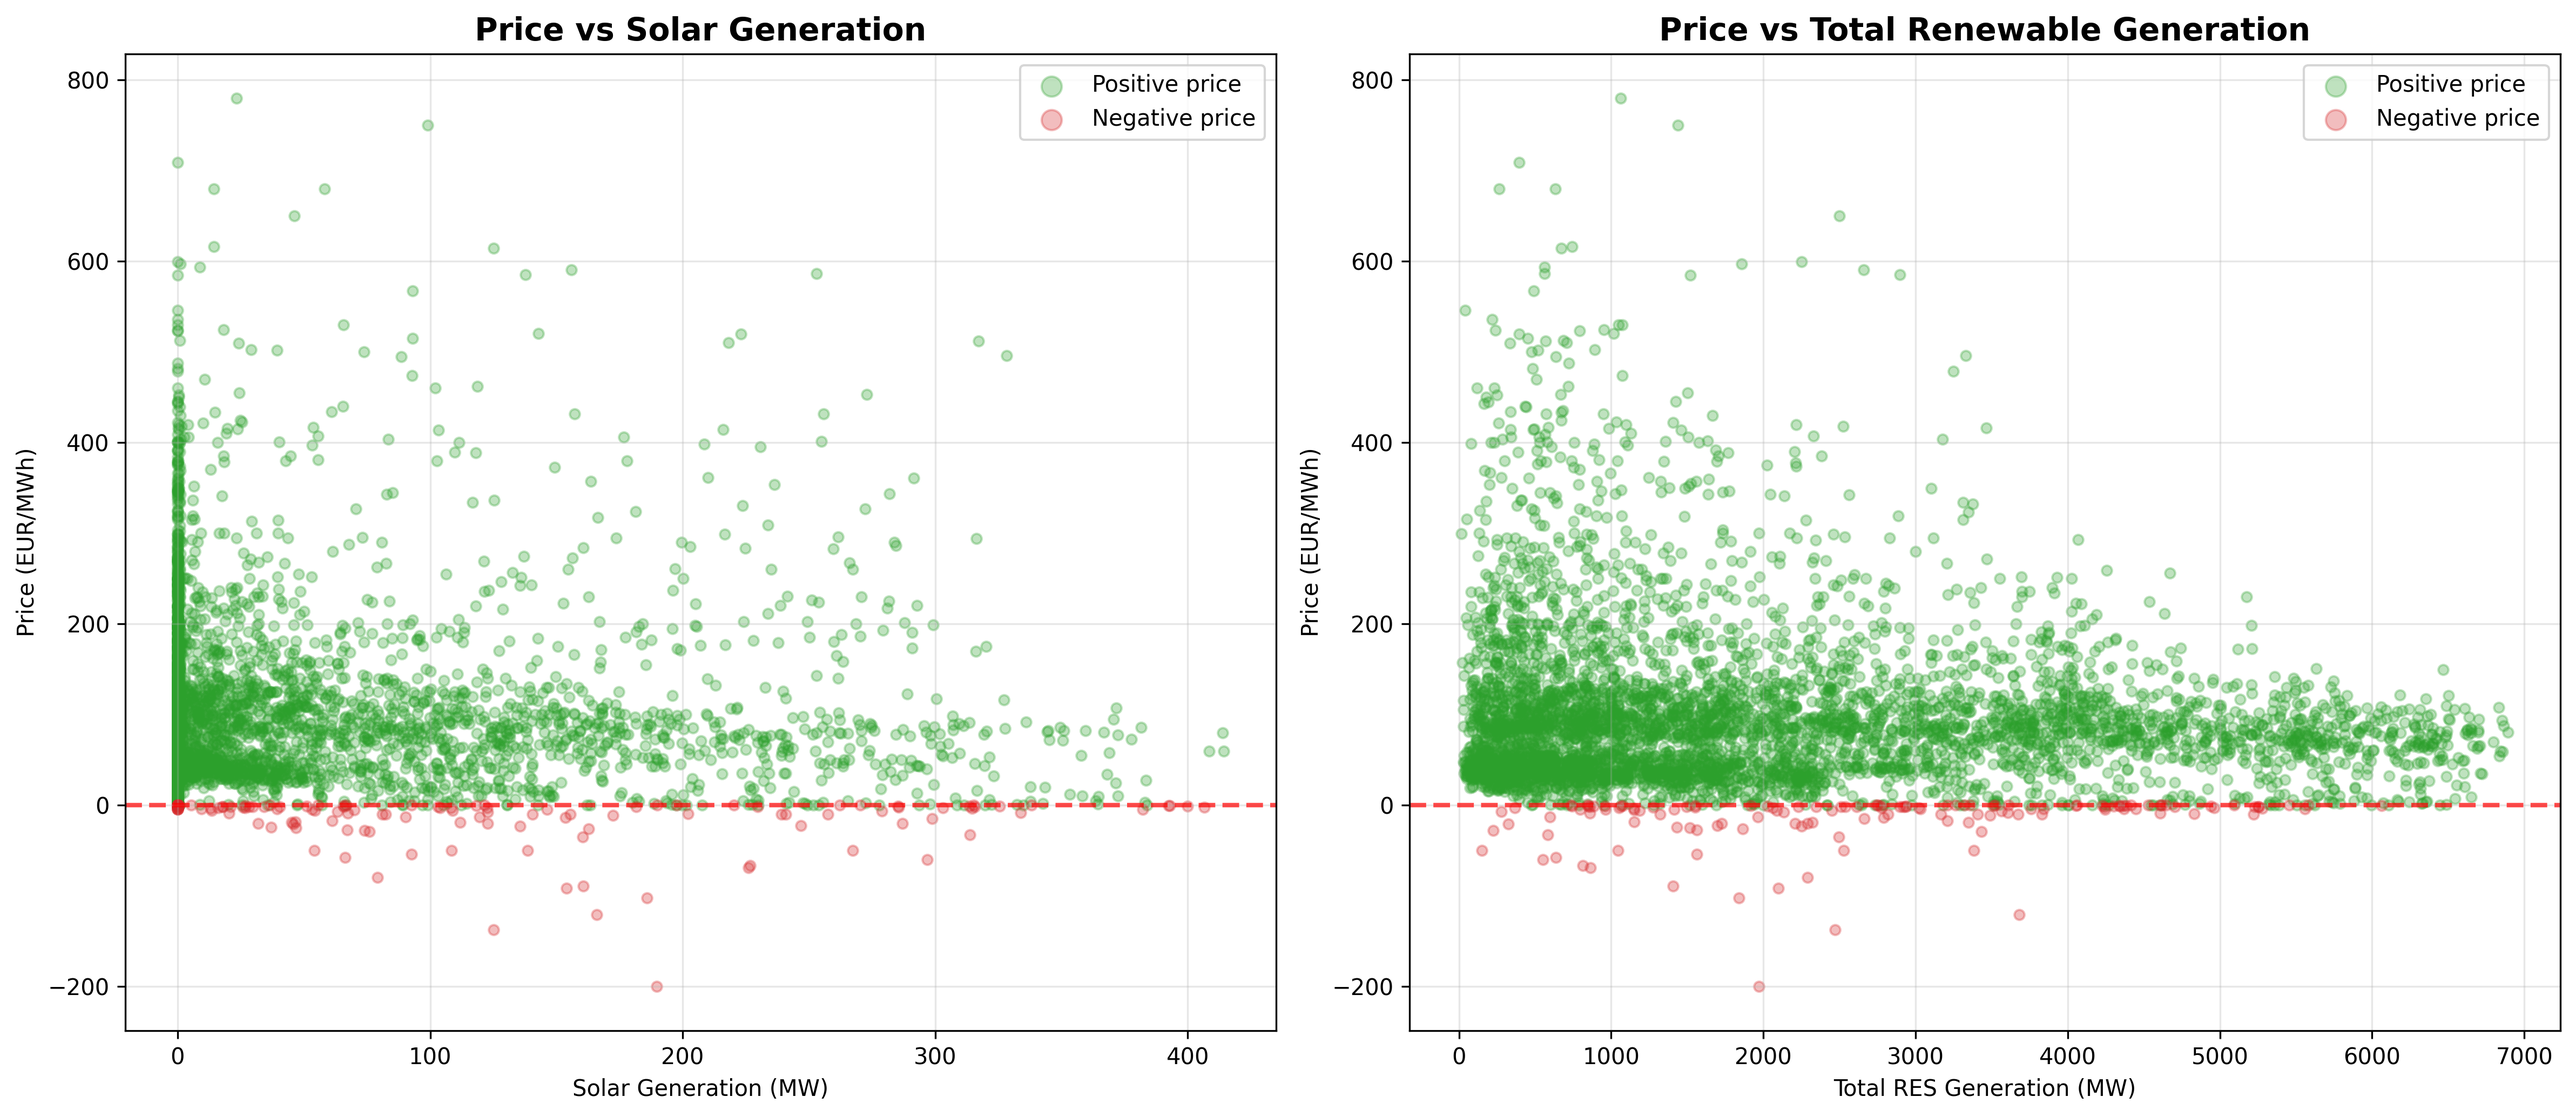
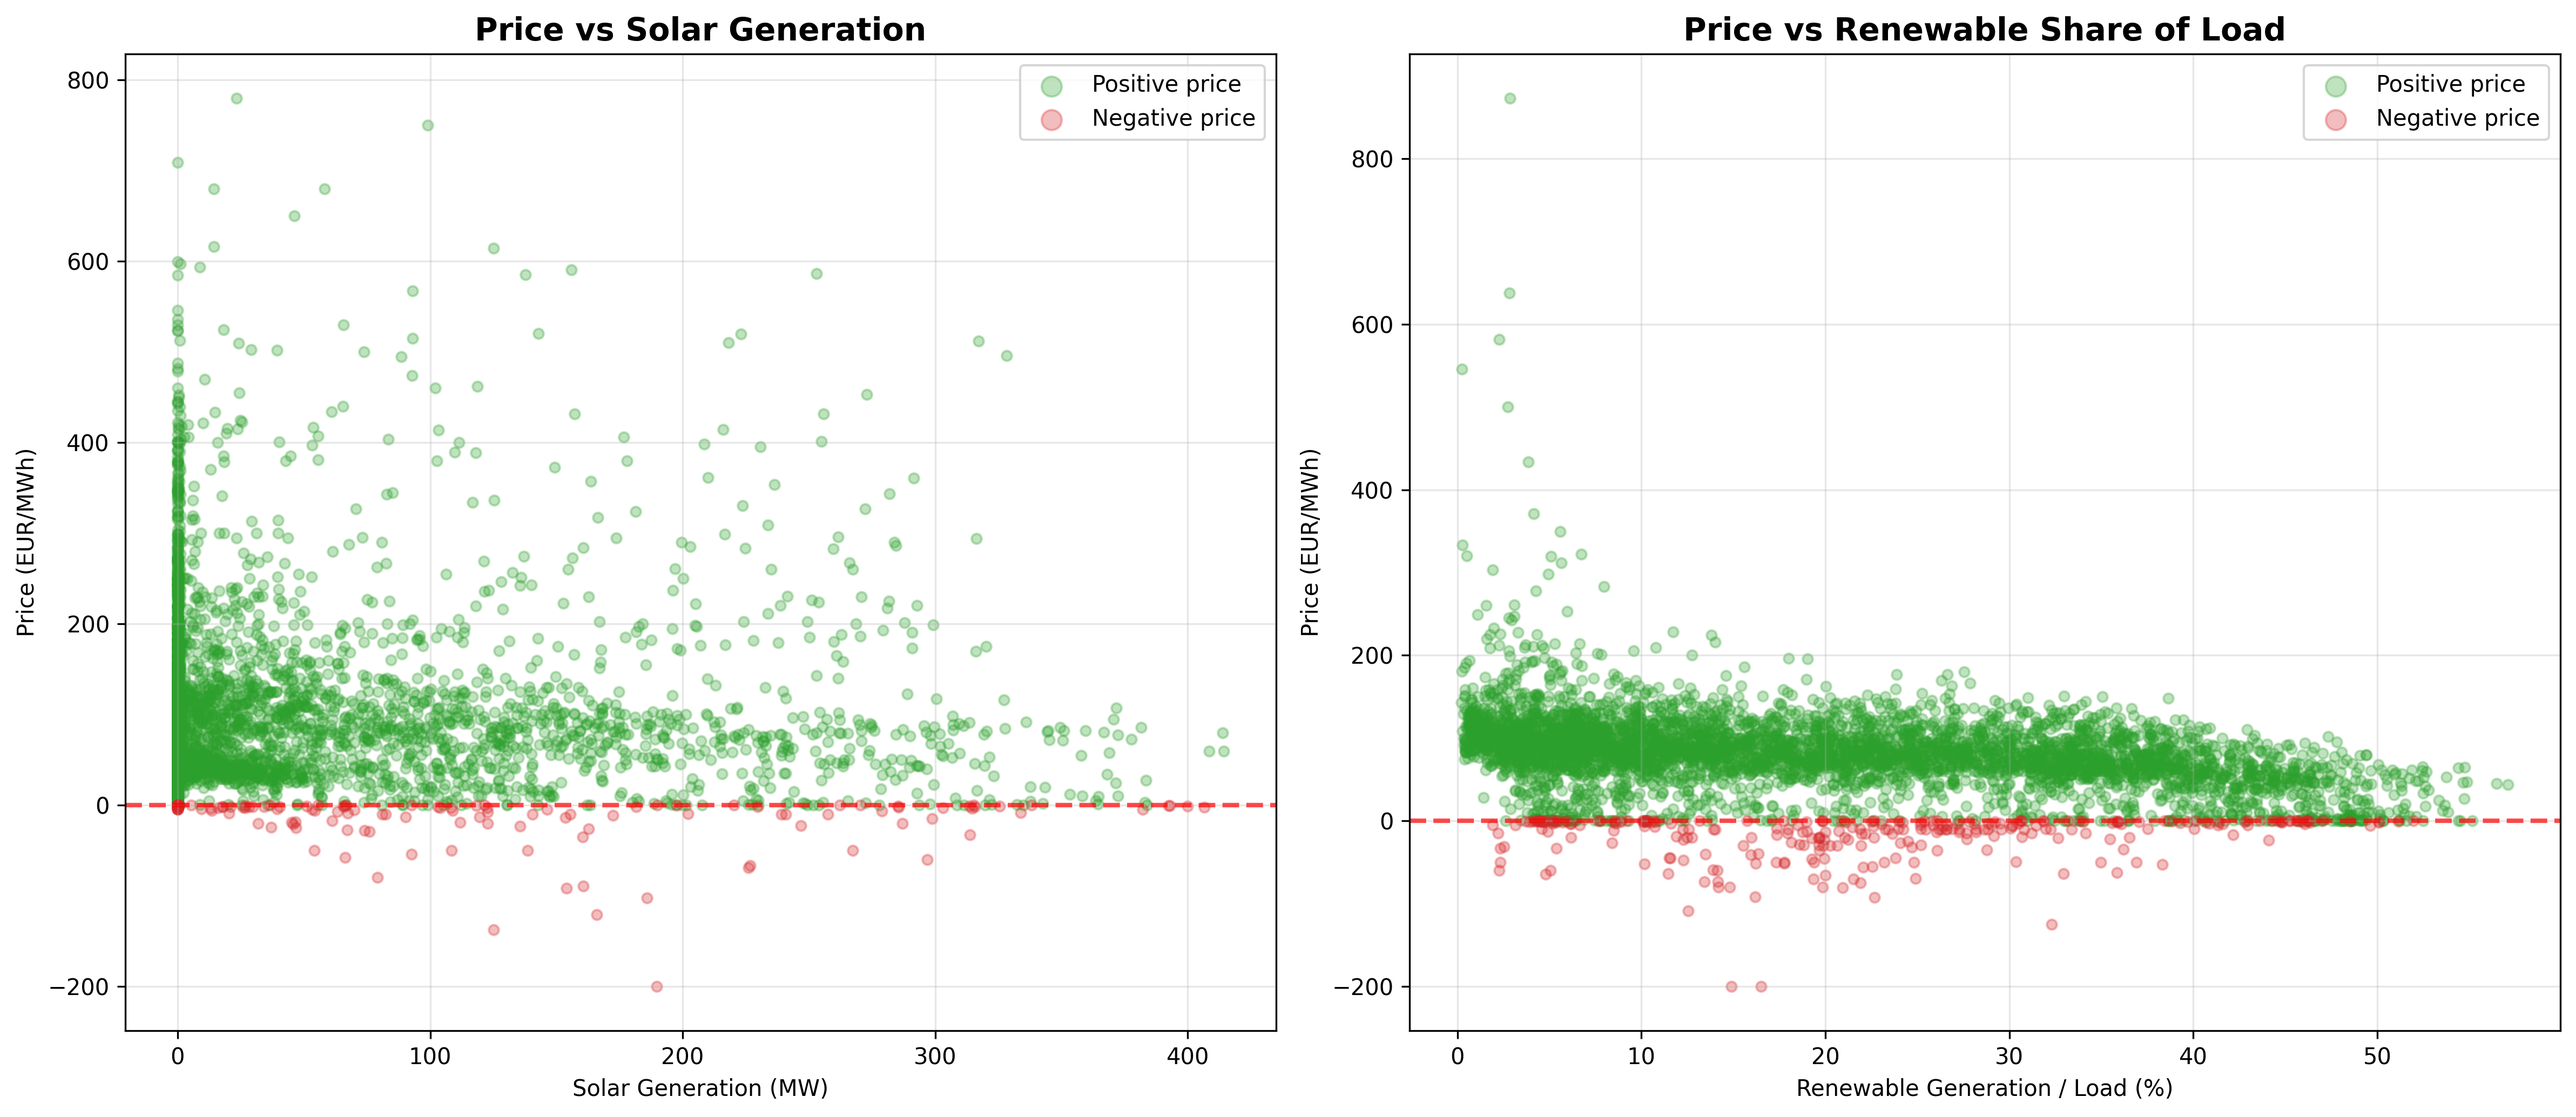
Changes

diff --git a/scripts/exploratory_analysis.py b/scripts/exploratory_analysis.py
@@ -355,15 +355,27 @@ axes[0].set_ylabel('Price (€/MWh)')
 axes[0].grid(True, alpha=0.3)
 axes[0].legend(fontsize=10, markerscale=2)
 
-# Scatter: Total RES vs Price
-axes[1].scatter(sample.loc[mask_pos, 'total_res'], sample.loc[mask_pos, 'price'],
+# Scatter: RES / Load vs Price (2024 only, from unified dataset)
+unified_06 = pd.read_csv(PROCESSED_DATA_DIR / "unified_dataset2.csv",
+                          index_col=0, parse_dates=True)
+unified_06.index = pd.to_datetime(unified_06.index, utc=True)
+unified_06 = unified_06[(unified_06.index.year == 2024) & unified_06['load_mw'].notna() & (unified_06['load_mw'] > 0)].copy()
+unified_06['res_to_load'] = (
+    (unified_06['solar_generation_mw'].fillna(0) + unified_06['wind_generation_mw'].fillna(0))
+    / unified_06['load_mw']
+)
+unified_06['is_negative'] = (unified_06['price_eur_mwh'] < 0).astype(int)
+sample_06r = unified_06.sample(n=min(5000, len(unified_06)), random_state=42)
+mask_pos_r = sample_06r['is_negative'] == 0
+mask_neg_r = sample_06r['is_negative'] == 1
+axes[1].scatter(sample_06r.loc[mask_pos_r, 'res_to_load'] * 100, sample_06r.loc[mask_pos_r, 'price_eur_mwh'],
                 alpha=0.3, s=20, color='#2ca02c', label='Positive price')
-axes[1].scatter(sample.loc[mask_neg, 'total_res'], sample.loc[mask_neg, 'price'],
+axes[1].scatter(sample_06r.loc[mask_neg_r, 'res_to_load'] * 100, sample_06r.loc[mask_neg_r, 'price_eur_mwh'],
                 alpha=0.3, s=20, color='#d62728', label='Negative price')
 axes[1].axhline(y=0, color='red', linestyle='--', linewidth=2, alpha=0.7)
-axes[1].set_title('Price vs Total Renewable Generation', fontsize=14, fontweight='bold')
-axes[1].set_xlabel('Total RES Generation (MW)')
-axes[1].set_ylabel('Price (€/MWh)')
+axes[1].set_title('Price vs Renewable Share of Load', fontsize=14, fontweight='bold')
+axes[1].set_xlabel('Renewable Generation / Load (%)')
+axes[1].set_ylabel('Price (EUR/MWh)')
 axes[1].grid(True, alpha=0.3)
 axes[1].legend(fontsize=10, markerscale=2)
 
@@ -425,37 +437,23 @@ print("[+] Saved: 06a_renewable_power_proportion_generation.png")
 # 11. VISUALIZATION 06b: Price vs Renewable Generation / Load
 # ============================================================================
 
-print("\n[*] Creating Visualization 06b: Renewable Power Proportion (of Load) vs Price...")
+print("\n[*] Creating Visualization 06b: Price vs Total Renewable Generation...")
 
-# Filter to 2024 only, and rows where load_mw is valid and positive
-unified_load = unified[(unified.index.year == 2024) & unified['load_mw'].notna() & (unified['load_mw'] > 0)].copy()
-
-# Compute renewable-to-load ratio
-unified_load['res_to_load'] = (
-    (unified_load['solar_generation_mw'].fillna(0) + unified_load['wind_generation_mw'].fillna(0))
-    / unified_load['load_mw']
-)
-unified_load['is_negative'] = (unified_load['price_eur_mwh'] < 0).astype(int)
-
-print(f"   Valid records: {len(unified_load):,}")
-print(f"   RES/Load range: {unified_load['res_to_load'].min():.1%} – {unified_load['res_to_load'].max():.1%}")
-
-# Sample for plotting
-sample_06b = unified_load.sample(n=min(5000, len(unified_load)), random_state=42)
-print(f"   Sampled {len(sample_06b):,} points ({sample_06b['is_negative'].sum()} negative)")
+# Reuse merged data from viz 06 (price, solar, wind, total_res, is_negative)
+sample_06b = merged.sample(n=min(5000, len(merged)), random_state=42)
 
 fig, ax = plt.subplots(figsize=(16, 7))
 
 mask_pos = sample_06b['is_negative'] == 0
 mask_neg = sample_06b['is_negative'] == 1
-ax.scatter(sample_06b.loc[mask_pos, 'res_to_load'] * 100, sample_06b.loc[mask_pos, 'price_eur_mwh'],
+ax.scatter(sample_06b.loc[mask_pos, 'total_res'], sample_06b.loc[mask_pos, 'price'],
            alpha=0.3, s=20, color='#2ca02c', label='Positive price')
-ax.scatter(sample_06b.loc[mask_neg, 'res_to_load'] * 100, sample_06b.loc[mask_neg, 'price_eur_mwh'],
+ax.scatter(sample_06b.loc[mask_neg, 'total_res'], sample_06b.loc[mask_neg, 'price'],
            alpha=0.3, s=20, color='#d62728', label='Negative price')
 ax.axhline(y=0, color='red', linestyle='--', linewidth=2, alpha=0.7)
-ax.set_title('Price vs Renewable Generation as Share of Load (Solar + Wind / Load)',
+ax.set_title('Price vs Total Renewable Generation (Solar + Wind)',
              fontsize=16, fontweight='bold')
-ax.set_xlabel('Renewable Generation / Load (%)', fontsize=12)
+ax.set_xlabel('Total RES Generation (MW)', fontsize=12)
 ax.set_ylabel('Price (EUR/MWh)', fontsize=12)
 ax.grid(True, alpha=0.3)
 ax.legend(fontsize=11, markerscale=2)

diff --git a/README.md b/README.md
@@ -120,16 +120,6 @@ Common issues:
 - **Timeout errors** - Some data types may have gaps; this is normal for ENTSO-E
 - **Empty DataFrames** - Some data may not be available for all time periods
 
-## Next Steps
-
-After downloading data:
-
-1. **Data Quality Check:** Run exploratory notebooks to verify data integrity
-2. **Feature Engineering:** Create ML-ready features
-3. **Model Training:** Train XGBoost classifier for negative price prediction
-4. **Economic Analysis:** Quantify business value
-5. **Visualization:** Create portfolio-ready charts
-
 ## API Key Registration
 
 To obtain your free ENTSO-E API key:
